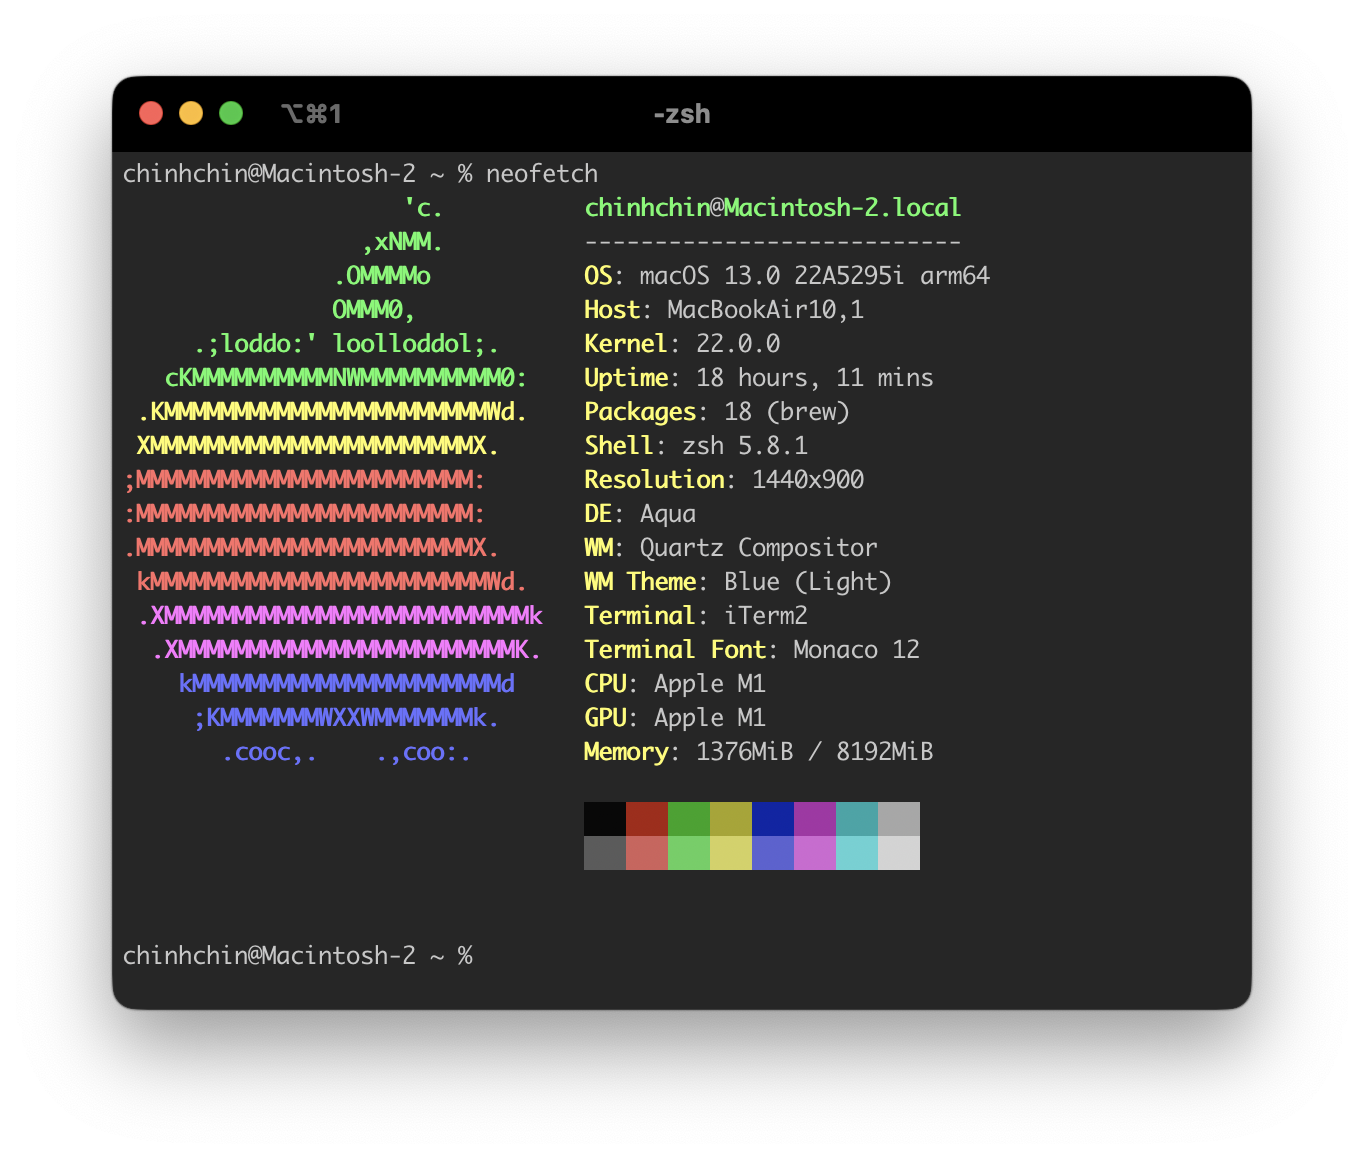
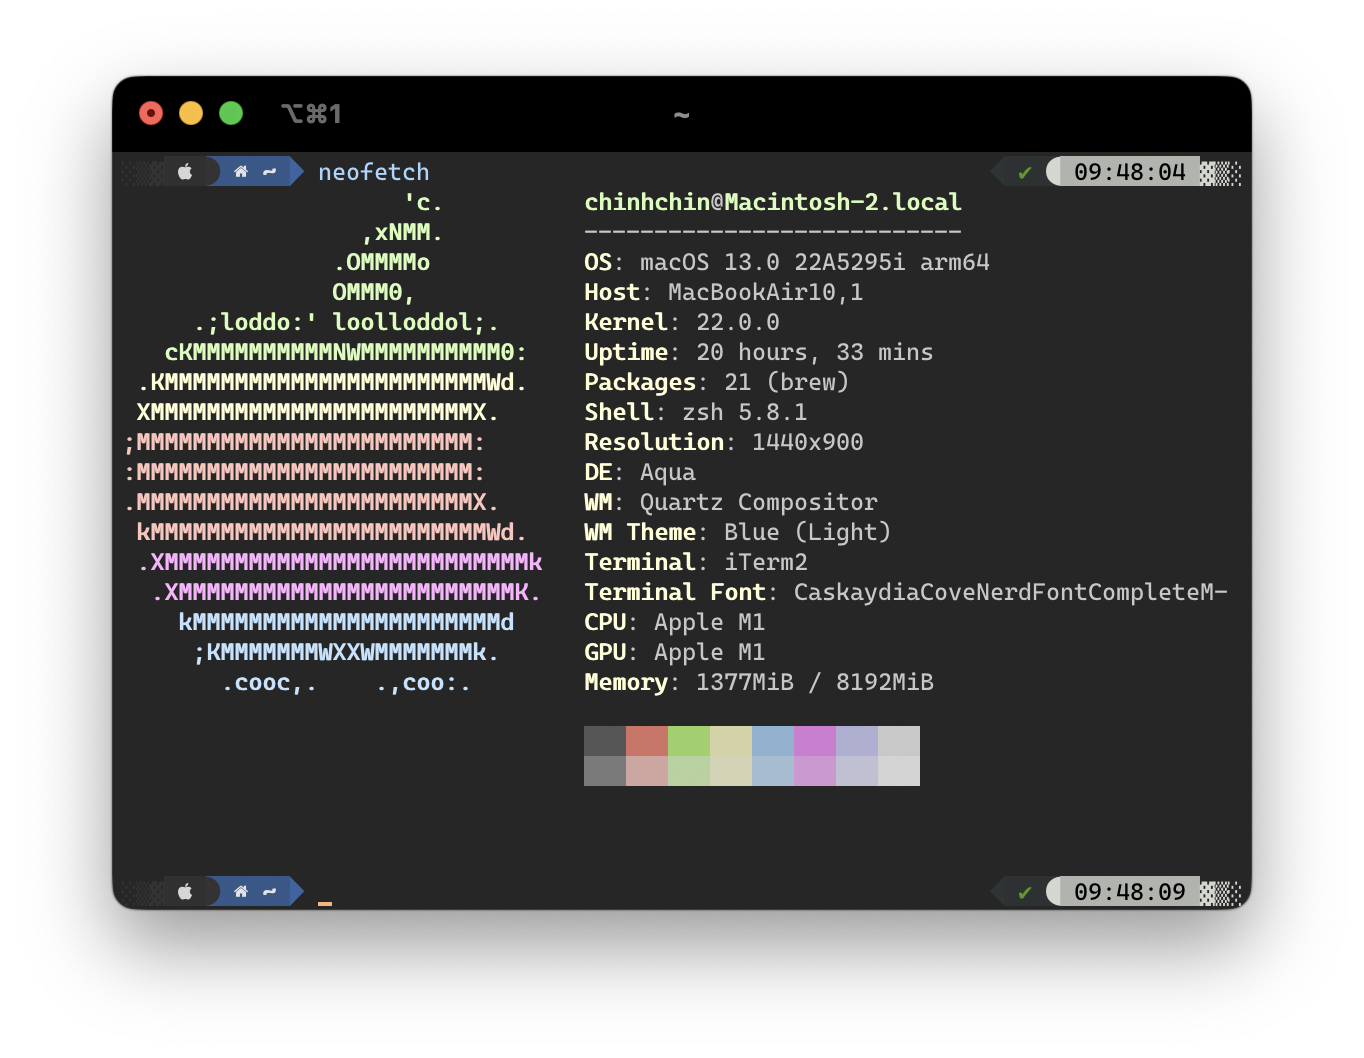
finish 0.1

diff --git a/readme.md b/readme.md
@@ -16,12 +16,11 @@ This is my Iterm2 setup to make terminal in macOS look better to increase more p
 ### **Contents**
 #### **[1. Install Iterm2](./readme.md#1-install-iterm2)**
 #### **[2. Config Iterm2](./readme.md#2-config-iterm2)**
-1. [Cursor](./readme-assets/cursor.png)
-2. [Colors Presents](./readme.md#21-colors-presents) 
-3. [Window Appearance](./readme.md#22-window-appearance)
+1. [Text](./readme.md#21-text)
+2. [Colors Presents](./readme.md#22-colors-presents) 
+3. [Window Appearance](./readme.md#23-window-appearance)
 
 ---
-
 ## **1. Install Iterm2**
 (Don't forget to install [Brew](https://github.com/achinhchin/Brew-setup.git) before continue.)
 
@@ -32,13 +31,13 @@ brew install --cask iterm2
 
 ## **2. Config Iterm2**
 Open Settings in Iterm2 by press *Cmd + ,*.
-### **2.1 Cursor**
-![](./readme-assets/cursor.png)
-At **Profiles** tab, in **Text** bar, select **Cursur** to *Underline*.
+### **2.1 Text**
+![](./readme-assets/text-config.png)
+At **Profiles** tab, in **Text** bar, select **Cursur** to *Underline* and **Font** to *CaskaydiaCove NF*.
 
 ### **2.2 Colors Presents**
-![](./readme-assets/colors-config.png)
-At **Profiles** tab, in **Colors** bar, select **Color Presents...** to *Dark Background*.
+![](./readme-assets/color-config.png)
+At **Profiles** tab, in **Colors** bar, select **Color Presents...** to *Pastel (Dark Background)*.
 
 ### **2.3 Window Appearance**
 ![](./readme-assets/window-appearance-config.png)
